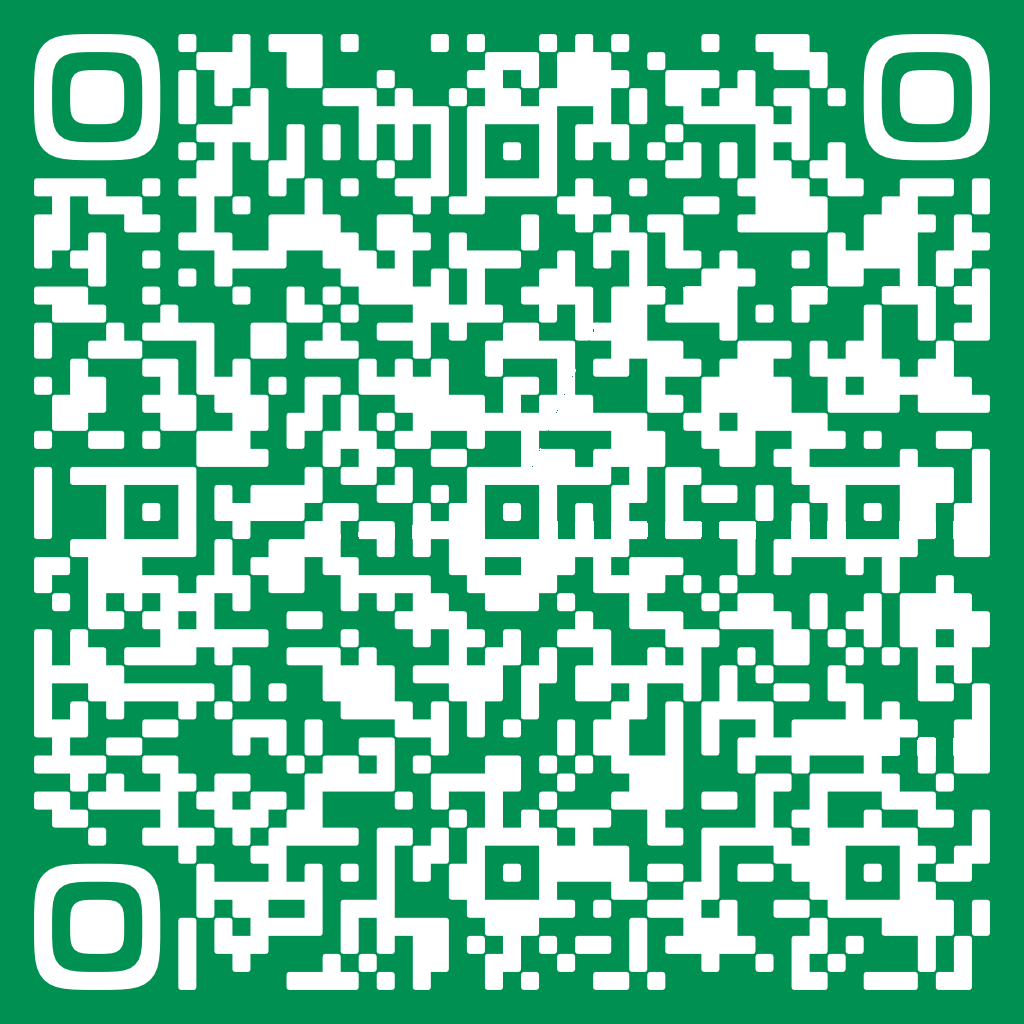
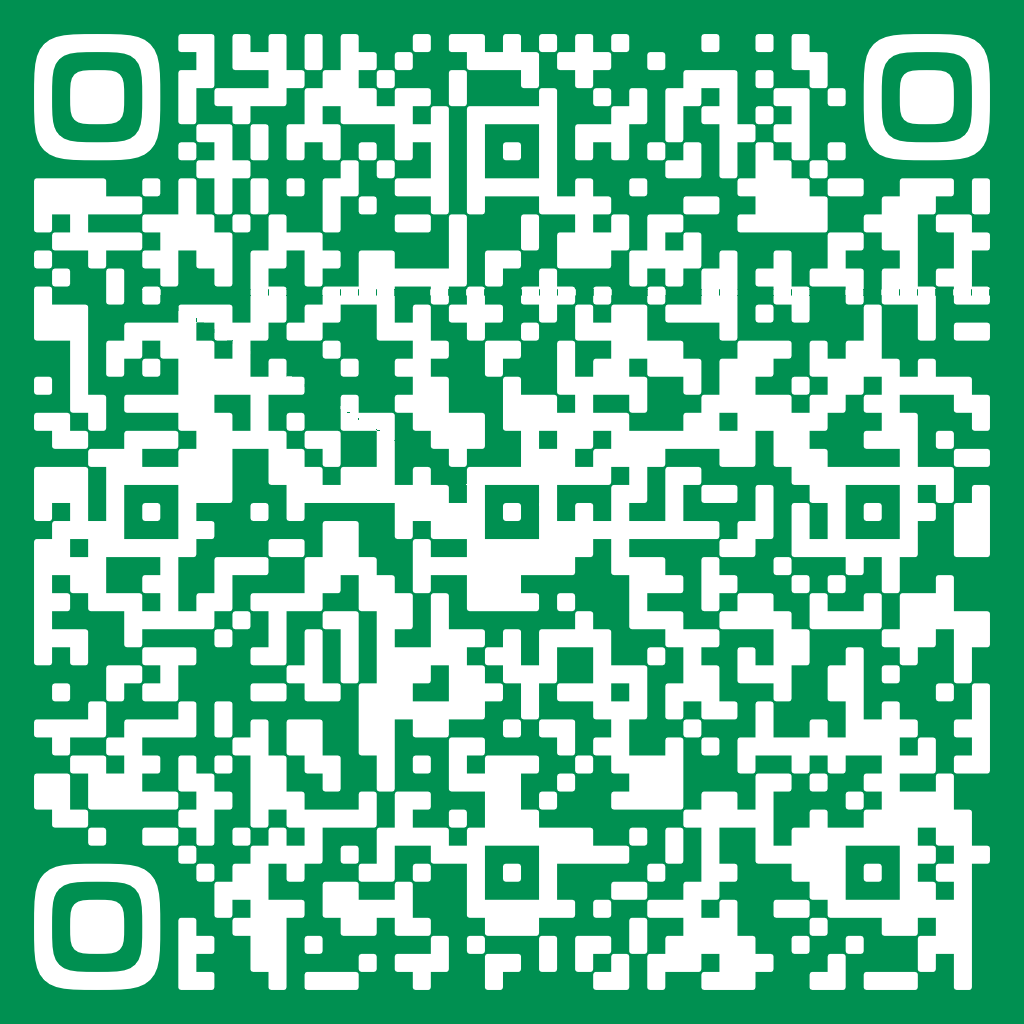
Fixing link and the QR code to CYC

diff --git a/index.html b/index.html
@@ -58,10 +58,10 @@
 
 
     <p><a
-            href="oneappvit://linkaccess/salegallery?call_from=TEP&category=loan&sub_category=loan.personal&sg_product_id=S12003&channel_code=TEP&origin=tep&params=cGFyc2VfZnJvbT1TYWxlX0dhbGxlcnkmc3RhZmZfaWQ9NTgyMjgmY2FtcGFpZ25fY29kZT00NDcxMg==">CYC</a>:<br>
+            href="oneappvit://linkaccess/salegallery?call_from=TEP&category=loan&sub_category=loan.car&sg_product_id=S12003&channel_code=TEP&origin=tep&params=cGFyc2VfZnJvbT1TYWxlX0dhbGxlcnkmc3RhZmZfaWQ9NTgyMjgmY2FtcGFpZ25fY29kZT00NDcxMg==">CYC</a>:<br>
         <img src="img/cyc.png" alt="CYC">
     <div>
-        oneappvit://linkaccess/salegallery?call_from=TEP&category=loan&sub_category=loan.personal&sg_product_id=S12003&channel_code=TEP&origin=tep&#38;params=cGFyc2VfZnJvbT1TYWxlX0dhbGxlcnkmc3RhZmZfaWQ9NTgyMjgmY2FtcGFpZ25fY29kZT00NDcxMg==
+        oneappvit://linkaccess/salegallery?call_from=TEP&category=loan&sub_category=loan.car&sg_product_id=S12003&channel_code=TEP&origin=tep&#38;params=cGFyc2VfZnJvbT1TYWxlX0dhbGxlcnkmc3RhZmZfaWQ9NTgyMjgmY2FtcGFpZ25fY29kZT00NDcxMg==
     </div>
     </p>
 
